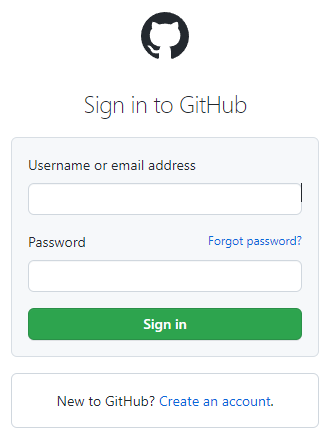
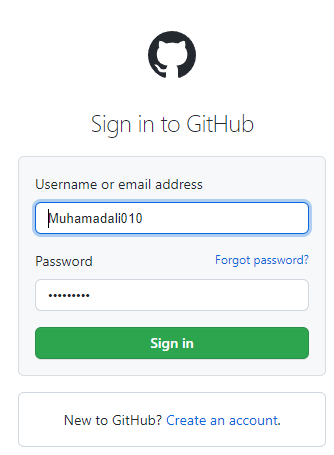
Update tugas

diff --git a/README.md b/README.md
@@ -31,11 +31,9 @@ $ git config --global user.email “nama_user”
 
 • Buka direktory aktif, misal: /d/Latihan VCS
 
-• klik kanan pada direktory aktif tersebut, dan pilih menu Git Bash,
+• klik kanan pada direktory aktif tersebut, dan pilih menu Git Bash here
 
-  sehingga muncul git bash commad
-
-  ![image](SC/Capture2.png)
+![image](SC/Capture2.png)
 
 • Buat direktory project praktikum pertama dengan nama <strong>Latihan_1
 
@@ -46,13 +44,15 @@ $ git config --global user.email “nama_user”
 
 ![image](SC/2.png)
 
-# Membuat Akun github
-
-• 
-
 # Membuat Repository Local
 
-• Jalankan perintah git init, untuk membuat repository local.
+• Login Akun github
+
+![image](SC/5.PNG)
+
+• klik New Recen Repositories
+
+![image](SC/Capture3.PNG)
 
 • lalu tambahkan git add README.md
 
